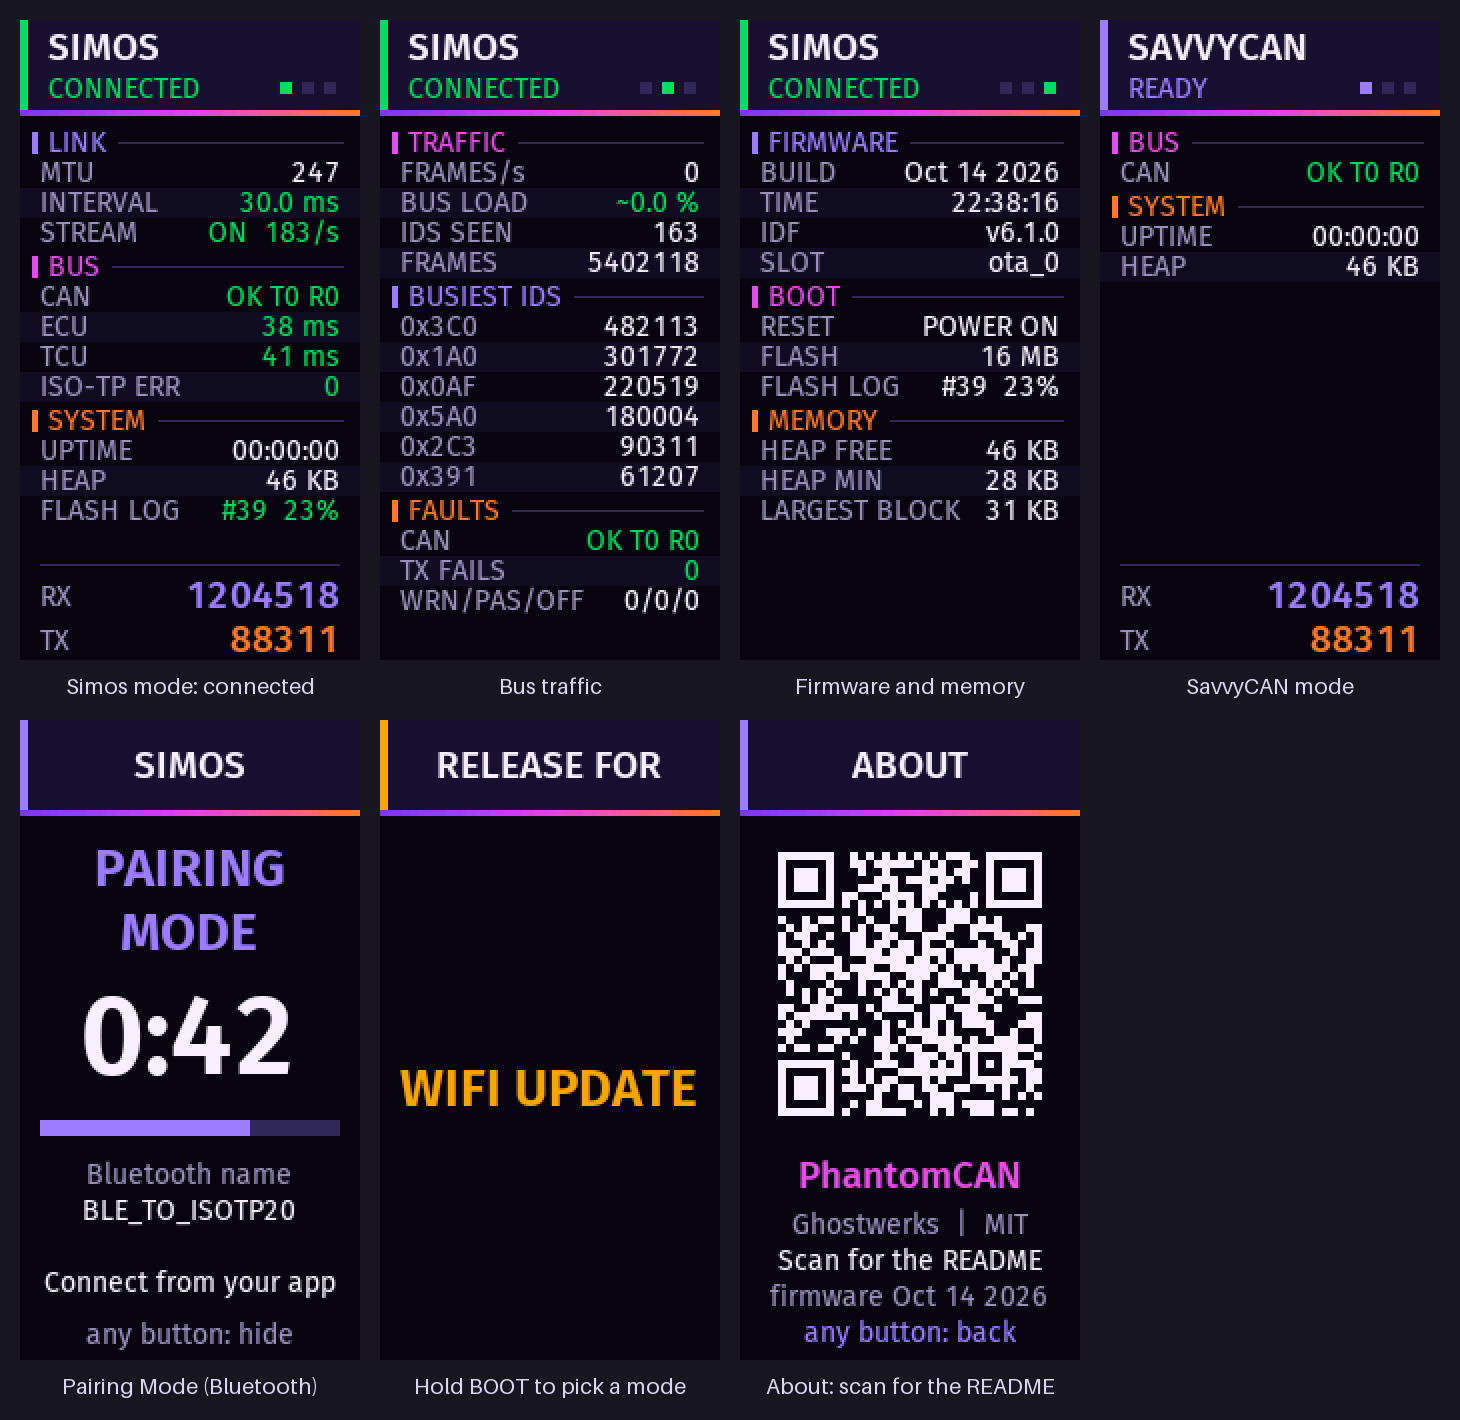
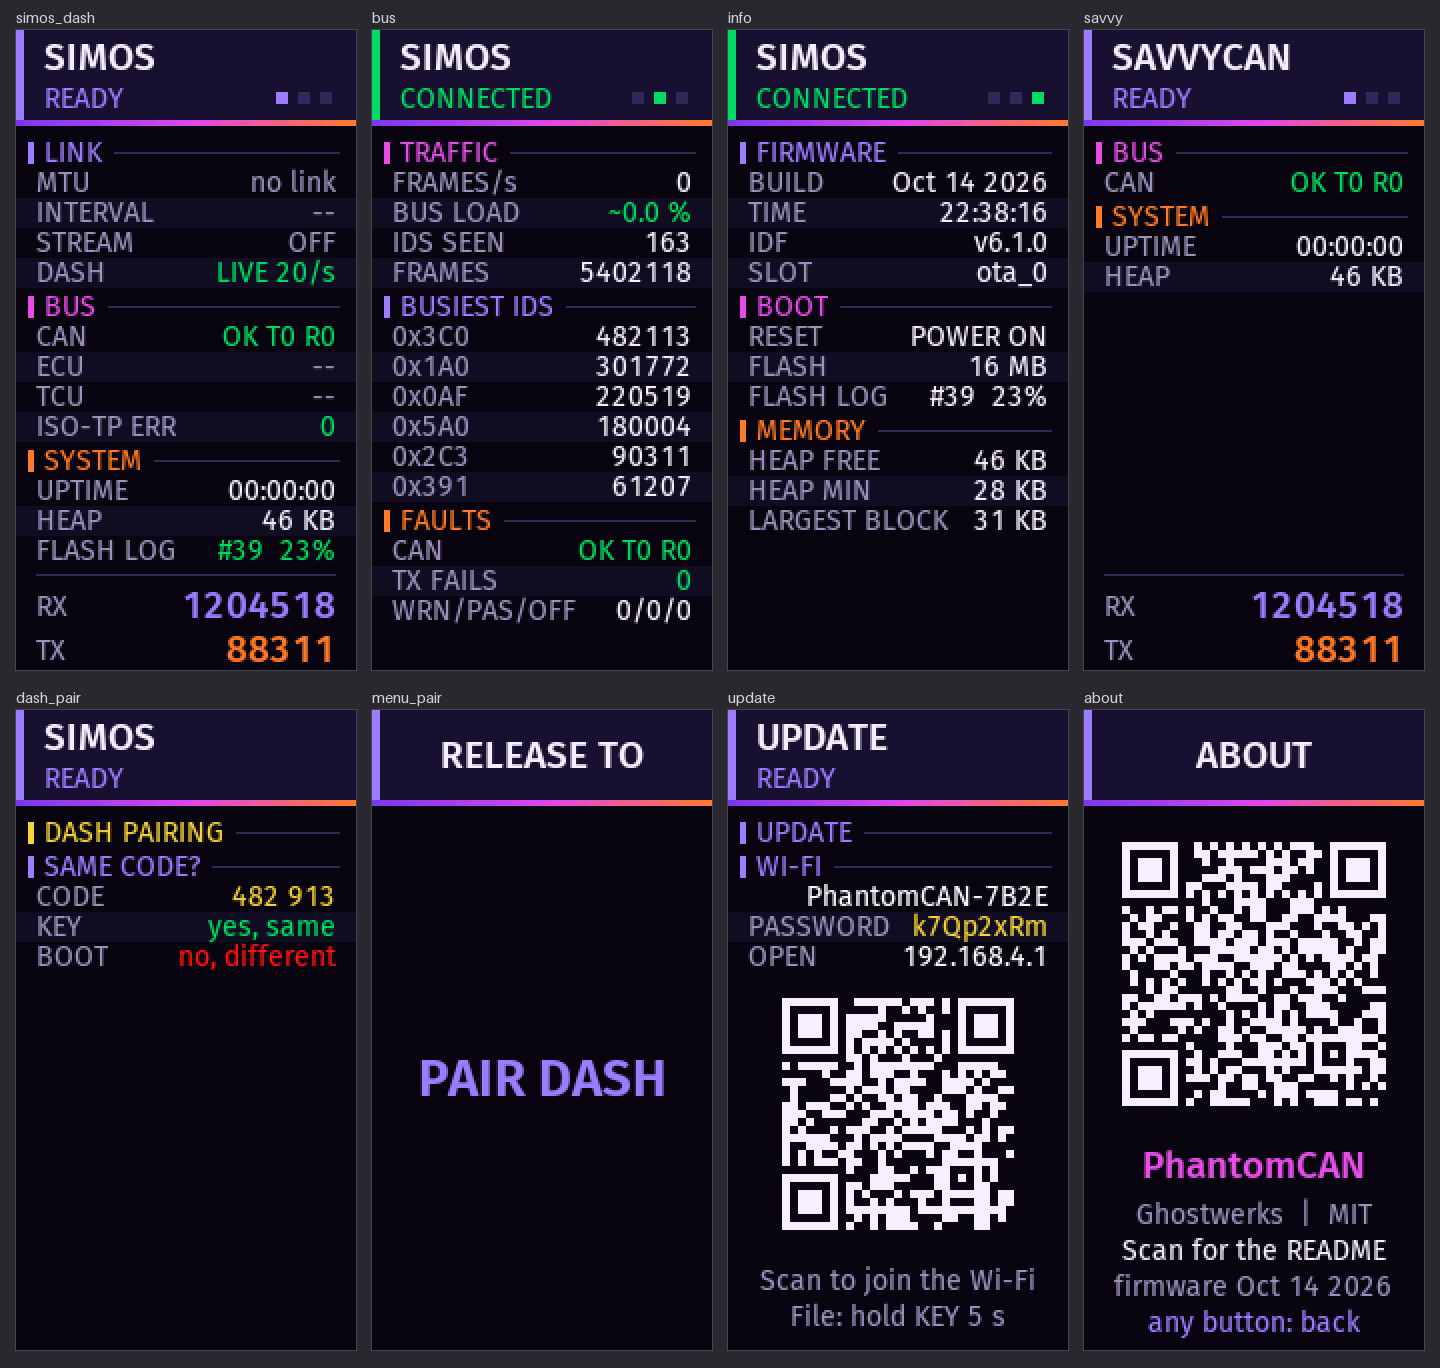
README: Simos mode feeds the PhantomDash dash (no separate DASH mode), Pair dash in the BOOT menu, new screen pictures

diff --git a/README.md b/README.md
@@ -5,18 +5,19 @@ screen, and connects to your phone or laptop over Bluetooth, Wi-Fi or USB.
 
 **Status: in development.** PhantomCAN is still being tested and has not been released yet. Features and behaviour can change, and bugs are expected.
 
-**Firmware downloads** will appear in this page's [Releases](../../releases) section. There is no release yet. Each release will have the update file (`firmware.bin`), a full image for
+**Firmware downloads** will appear in this page's [Releases](../../releases) section. There is no release yet. Each release will have the update file (`phantomcan-dongle.bin`), a full image for
 first-time USB flashing, and a checksum file.
 
 **What it does**
 
-* **Log and tune with the Simos apps.** A fast Bluetooth link for Simos.app and Simos Tools: live ECU and transmission
+* **Log and tune with Simos.app.** A fast Bluetooth link for Simos.app: live ECU and transmission
   logging, ECU info and flashing.
 * **Capture CAN traffic on a computer.** SavvyCAN mode streams raw CAN frames over Wi-Fi, so it works with the dongle in the car.
+* **Feed an in-car digital dash.** In Simos mode, while no phone app is connected, the dongle sends live readings to the PhantomDash display over an encrypted radio link; when an app connects the dash pauses and shows **APP CONNECTED**, and it carries on when the app disconnects (the dash is a separate product, still in development).
 * **Sleep when the car is off,** and update its own firmware over Wi-Fi.
 
 **Contents:** [What you need](#what-you-need) · [Getting started](#getting-started) · [Choosing a mode](#choosing-a-mode) ·
-[Simos mode](#simos-mode) · [SavvyCAN mode](#savvycan-mode) ·
+[Simos mode](#simos-mode) · [SavvyCAN mode](#savvycan-mode) · [The PhantomDash dash](#the-phantomdash-dash) ·
 [Auto sleep](#auto-sleep) · [Updating the firmware](#updating-the-firmware) · [Troubleshooting](#troubleshooting) ·
 [Specifications](#specifications) · [How this was built](#how-this-was-built) · [Safety and legal](#safety-and-legal) ·
 [Credits and licences](#credits-and-licences)
@@ -25,7 +26,7 @@ first-time USB flashing, and a checksum file.
 
 ## What the screen shows
 
-![The dongle's screens: Simos mode, bus traffic, firmware and memory, SavvyCAN, Pairing Mode, the mode menu and About](img/screens.png)
+![The dongle's screens: Simos mode with the dash row, bus traffic, firmware and memory, SavvyCAN, pairing the dash, the Pair dash prompt, Wi-Fi update and About](img/screens.png)
 
 Pictures made on a computer by running the dongle's real screen code with made-up numbers (the build date and counters are examples). The screen is 170 x 320 pixels.
 
@@ -33,7 +34,7 @@ Pictures made on a computer by running the dongle's real screen code with made-u
 
 * A car with a standard OBD-II port that uses **CAN at 500 kbit/s**. Most cars sold in the US since 2008 do. The dongle was tested
   on a 2017 Volkswagen Golf GTI (Mk7); other models are expected to work but have not been tested yet.
-* For Simos mode: **Simos.app** or **Simos Tools**, which are separate products you get from their own developers.
+* For Simos mode: **Simos.app**, a separate product you get from its own developer.
 * For SavvyCAN mode: a computer with [SavvyCAN](https://www.savvycan.com).
 
 Not supported: CAN FD and DoIP (found on the newest cars), K-line, and older cars that use the TP 2.0 protocol.
@@ -58,8 +59,8 @@ release when you see the mode you want.
 | Hold BOOT for | The screen offers | What happens |
 |---|---|---|
 | a quick tap | next page | cycles the status, bus monitor and firmware info pages |
-| 2 seconds | the next mode | switches to it and restarts |
-| every further 1.5 seconds | the mode after that | keep holding to switch between Simos and SavvyCAN |
+| 2 to 3.5 seconds | the other mode | switches between Simos and SavvyCAN and restarts (in SavvyCAN mode this lasts until 6.5 seconds) |
+| about 3.5 to 6.5 seconds (Simos mode) | **Pair dash** | opens a pairing window for the PhantomDash dash, no restart (see [The PhantomDash dash](#the-phantomdash-dash)) |
 | about 6.5 to 8 seconds | **Bench sim** | demo mode, no car needed (see below) |
 | about 8 to 9.5 seconds | **Wi-Fi update** | firmware update mode |
 | 9.5 seconds or more | **Cancel** | restarts in the same mode |
@@ -83,9 +84,9 @@ app without a car. Nothing is sent on a car's CAN bus.
 
 ## Simos mode
 
-The default mode. The dongle appears over Bluetooth as **BLE_TO_ISOTP20**, the name Simos Tools looks for.
+The default mode. The dongle appears over Bluetooth as **BLE_TO_ISOTP20**.
 
-1. Open Simos.app or Simos Tools and choose the dongle in its Bluetooth device list.
+1. Open Simos.app and choose the dongle in its Bluetooth device list.
 2. Connect. The screen shows **CONNECTED** with the connection details (link speed and ECU and transmission response times).
 3. Use the app as normal: ECU info, logging and flashing.
 
@@ -95,7 +96,6 @@ charged.
 Compatibility notes:
 
 * **Simos.app** works with both the engine control unit (ECU) and the transmission control unit (TCU).
-* **Simos Tools** logs the engine control unit (ECU), and with the transmission control unit (TCU) enabled it works in the car. Earlier firmware showed "Failed to create PID frame" when the TCU was on, because the ECU's first reply reached the app before the TCU's. The dongle now sends the TCU's reply first for Simos Tools. After that change it worked in the car, with an occasional single retry on the first connection. If the error keeps coming back, use Simos.app, which has always worked with the TCU on this dongle and car.
 
 ## SavvyCAN mode
 
@@ -121,26 +121,36 @@ engine and transmission reply on `0x7E8` and `0x7E9`.
 At a desk you can also connect the dongle to the computer over USB and add it in SavvyCAN as a serial **GVRET** device (250000 baud). Do not do
 this while the dongle is in a car.
 
+## The PhantomDash dash
+
+For the PhantomDash digital dash, a separate product that is still in development. There is no separate mode for it: Simos mode serves the dash whenever no phone app is connected. The dongle only reads: it asks the car for the values the dash wants and sends the raw answers over an encrypted ESP-NOW radio link.
+
+* **Pairing, once:** disconnect any phone app, hold **BOOT** until the screen says **PAIR DASH** (about 4 seconds) and let go. Then start pairing on the dash's phone page. Both show the same six-digit code: if they match, confirm on the phone and press **KEY** on the dongle; if not, tap **BOOT**. There is nothing to type, and the keys are kept for next time. With no dash paired, the dongle does not start its radio link at all.
+* **Every day:** the dash shows live values as soon as the car is awake. The **DASH** row on the dongle's first page says **LIVE** with the number of reads a second while it is serving the dash.
+* **When you connect Simos.app:** the dongle hands the car to the app at once. It switches its dash radio off completely (the app gets the dongle's full memory and attention), and the dash shows **APP CONNECTED**. About 2 seconds after the app disconnects the dash link comes back by itself.
+* **Lists:** mode 22 lists work. HSL lists (the engine computer's high-speed logging, which needs a tune with the HSL patch) are built and tested on the bench only.
+
 ## Auto sleep
 
 The OBD-II port has power all the time, so to avoid draining the car's battery the dongle goes into a low-power sleep after **3 minutes**
-with no CAN traffic, no connected phone or app, and no button presses. Driving the car, unlocking it, connecting an app or pressing BOOT wakes it. If something merely stirred the car's network and nothing
+with no CAN traffic, no connected phone, app or paired dash, and no button presses. Driving the car, unlocking it, connecting an app or pressing BOOT wakes it. If something merely stirred the car's network and nothing
 connects, the dongle goes back to sleep after about 30 seconds instead of staying awake for the full 3 minutes. It does
 not sleep while connected over USB, or in Bench sim or Wi-Fi update modes. In SavvyCAN mode it sleeps only when no computer is connected.
 
-Sleep lowers the dongle's power use but does not turn it off completely. **If you leave the car parked for days or weeks, unplug the
+Sleep lowers the dongle's power use but does not turn it off completely. Measured on one assembled dongle on a bench supply, idle with no data and the screen off, it draws about **30 to 35 mA** while awake (the 3 minutes before sleep) and about **5 to 6 mA** asleep. That is roughly 0.14 Ah a day. **If you leave the car parked for days or weeks, unplug the
 dongle.**
 
 ## Updating the firmware
 
 You can update over Wi-Fi without any cable.
 
-1. Hold BOOT for about 8 to 9.5 seconds and release on **Wi-Fi update**.
-2. On your phone or computer, join the Wi-Fi network shown on the dongle's screen (**PhantomCAN-** followed by four characters that tell dongles
+1. On your phone, download `phantomcan-dongle.bin` from the newest [release](../../releases) first (hold **KEY** for 5 seconds on the dongle for the About screen's QR code that opens this page). The dongle's network has no internet.
+2. Hold BOOT for about 8 to 9.5 seconds and release on **Wi-Fi update**.
+3. Scan the QR code on the dongle's screen with the phone's camera to join its Wi-Fi, or join by hand: the network shown (**PhantomCAN-** followed by four characters that tell dongles
    apart) and enter the password shown there. The password is new every time.
-3. Open `http://192.168.4.1` in a browser, choose the `firmware.bin` file from the newest [release](../../releases), and upload it. Compare its SHA-256 with the `SHA256SUMS` file in the
+4. Open `http://192.168.4.1` in a browser (if the phone says "connected without internet", tap the network's **Manage router** or similar link), tap **Choose the update file** and pick `phantomcan-dongle.bin`. The upload starts at once. Compare the file's SHA-256 with the `SHA256SUMS` file in the
    release if you want to check the download.
-4. The dongle restarts by itself. **Wait about 30 seconds before unplugging it.** It checks the new firmware as it starts, and goes back to
+5. The dongle restarts by itself. **Wait about 30 seconds before unplugging it.** It checks the new firmware as it starts, and goes back to
    the previous version automatically if the new one does not start properly.
 
 ## Troubleshooting
@@ -151,20 +161,18 @@ You can update over Wi-Fi without any cable.
 | Nothing answers, or the screen says BUS SILENT | Turn the ignition on and wait a few seconds. Some cars need the engine running before the OBD port wakes. |
 | The screen is dark | It switches off after a while. Press BOOT to wake it. |
 | The dongle does not respond after an update | Wait 30 seconds. If it is still unresponsive, unplug it and plug it back in; it starts the previous firmware if the new one failed. |
-| Simos Tools cannot find or connect to the dongle | Do not rename the dongle in Simos mode. Simos Tools only looks for **BLE_TO_ISOTP20**. If it was renamed in Simos.app, rename it back to **BLE_TO_ISOTP20** there (use Simos.app, then power the dongle off and on). |
-| Simos Tools shows "Failed to create PID frame" with the TCU enabled | This happened on earlier firmware and is fixed in the current one. A single retry right after connecting can still happen: try again once. If it keeps coming back, use Simos.app for TCU logging, or turn the TCU off in Simos Tools, and open an issue on this page with the app version. |
 
 ## Specifications
 
 | | |
 |---|---|
 | Connection to the car | OBD-II port, CAN at 500 kbit/s (11-bit) |
-| Power | 12 V from the OBD-II port |
-| Wireless | Bluetooth LE and a 2.4 GHz Wi-Fi access point (WPA2) |
+| Power | 12 V from the OBD-II port. Measured on one unit at 12 V (bench supply): about 75 mA with the screen on and 35 mA with it off, awake and idle; about 6 mA asleep |
+| Wireless | Bluetooth LE, a 2.4 GHz Wi-Fi access point (WPA2) and an encrypted ESP-NOW link to the PhantomDash dash |
 | USB | USB-C, for bench use |
 | Display | 1.9 inch colour screen, 170 x 320 |
 | Controls | BOOT and KEY buttons |
-| Modes | Simos, SavvyCAN, plus Bench sim and Wi-Fi update |
+| Modes | Simos (which also feeds the PhantomDash dash) and SavvyCAN, plus Bench sim and Wi-Fi update |
 | Protocols | ISO-TP (ISO 15765-2), UDS (ISO 14229), GVRET |
 
 ## How this was built
@@ -178,8 +186,8 @@ the reason I put so much into testing it:
 
 * **Tested in a car, not just on a bench.** The dongle has been used for weeks in a 2017 Volkswagen Golf GTI, including logging sessions of
   more than half an hour, ignition on and engine running, and sleeping and waking with the car. Problems found there were fixed and checked again.
-* **Automated tests run after every change.** About 50 desktop tests (48 at the moment) cover the protocol code, plus bench tests that run each mode over
-  Bluetooth and Wi-Fi against a built-in simulated car.
+* **Automated tests run after every change.** More than 90 desktop tests (93 at the moment) cover the protocol code, plus bench tests that run each mode over
+  Bluetooth, Wi-Fi and the dash's radio link against a built-in simulated car.
 * **Failures leave evidence.** The dongle keeps a log in its own memory, including crash reports, so a fault can be traced instead of guessed at.
   I read that log after every drive and look for lost frames, errors, resets and memory use. Several bugs, some of them my fault and some the
   AI's, were found that way and fixed. One example: logging sessions were occasionally losing a few CAN frames at the start, which the log
@@ -190,8 +198,9 @@ What is not proven yet, so you can decide for yourself:
 
 * It has been tested on one car, and the hardware is a prototype. A custom board is planned and will be tested again from the start.
 * The Bluetooth connection cannot have a password.
-* Logging, ECU info and SavvyCAN mode are tested in the car. I have not yet flashed an ECU or TCU through the dongle myself, so treat flashing as untested.
-* The dongle sleeps when the car is off, and it wakes when the car is unlocked or BOOT is pressed, but I have not yet measured how much current it draws while asleep.
+* Logging, ECU info and SavvyCAN mode are tested in the car. I have flashed one engine calibration (CAL) through the dongle with Simos.app, in my own car, and it completed and the car ran. That is a single flash on one car, so treat flashing with care. A full ECU flash, any gearbox (TCU) flash and other cars are untested.
+* The dash link has run in the car: as a separate mode for a few minutes on earlier firmware, and as part of Simos mode in one short test (about 85 seconds: the dash alone, then a Simos.app logging session with the dash paused, then the dash again). The dash's mode 22 values were accurate when I checked them in the car. HSL for the dash and the final dash in a long drive are not tested yet.
+* The dongle sleeps when the car is off, and it wakes when the car is unlocked or BOOT is pressed, and one bench measurement of the assembled dongle shows about 5 to 6 mA asleep (see Auto sleep). In my own car I have watched it go to sleep and wake, and its logs from almost a week of testing show the same. Whether it reaches sleep depends on the car's network going quiet, so another car that keeps its network busy could keep it awake.
 * I have not tested it with every vehicle, app version or phone.
 
 ## Safety and legal
@@ -208,7 +217,7 @@ What is not proven yet, so you can decide for yourself:
 * Modifying a vehicle's emissions equipment or its emissions-related software can be illegal for road use where you live. This dongle only
   reports what a control unit says; you are responsible for complying with local law.
 * Volkswagen, Audi, Golf, GTI, Bluetooth and the other names used here belong to their owners. This product is not affiliated with or
-  endorsed by them. PhantomCAN and Ghostwerks are names of this product and its maker. Simos.app and Simos Tools are separate products by their own developers. PhantomCAN is built to be used with them; it is not made, sponsored, endorsed or supported by them.
+  endorsed by them. PhantomCAN and Ghostwerks are names of this product and its maker. Simos.app is a separate product by its own developer. PhantomCAN is built to be used with it; it is not made, sponsored, endorsed or supported by them.
 
 ## Credits and licences
 
@@ -219,6 +228,7 @@ It is built on open-source work, used under the licences below, and the authors'
 * The Bluetooth and ISO-TP bridge it grew from, [esp32-isotp-ble-bridge](https://github.com/bri3d/esp32-isotp-ble-bridge) by Brian Ledbetter (bri3d), and its
   [fork](https://github.com/Switchleg1/esp32-isotp-ble-bridge) by Switchleg1 (MIT licence).
 * [isotp-c](https://github.com/lishen2/isotp-c) by Shen Li (MIT licence).
+* [QR Code generator library](https://www.nayuki.io/page/qr-code-generator-library) by Project Nayuki (MIT licence; its notice is kept at the top of `main/qrcodegen.c`), used for the Wi-Fi code on the update screen.
 * [Fira Sans](https://github.com/mozilla/Fira) by Mozilla, Telefonica, Carrois Corporate and bBox Type (SIL Open Font License 1.1, notice below), used for all text on the screen.
 * [ESP-IDF](https://github.com/espressif/esp-idf) by Espressif Systems and the open-source components it includes, under their own licences
   (mostly Apache 2.0, see [its licence page](https://github.com/espressif/esp-idf/blob/master/LICENSE)).
